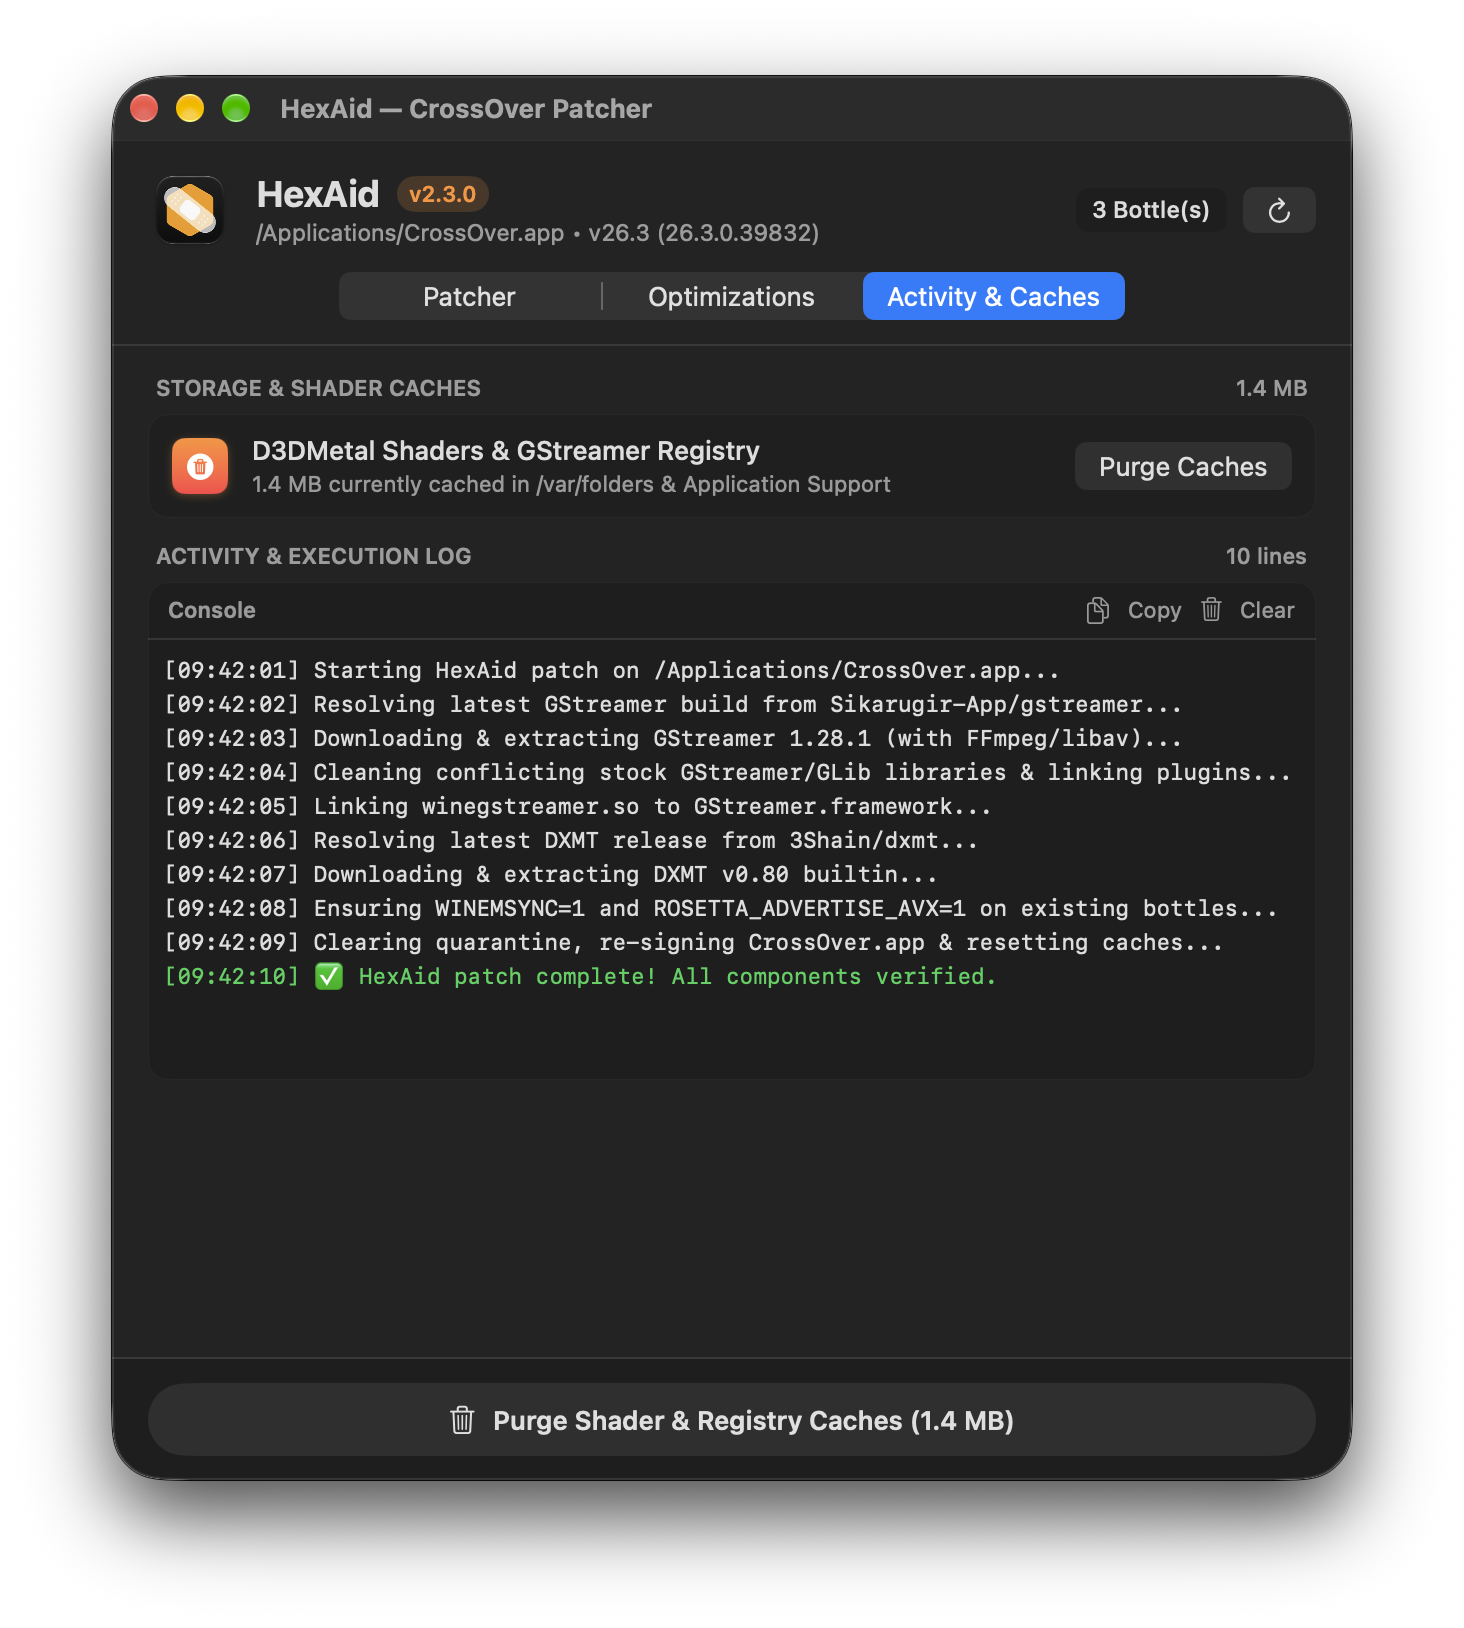
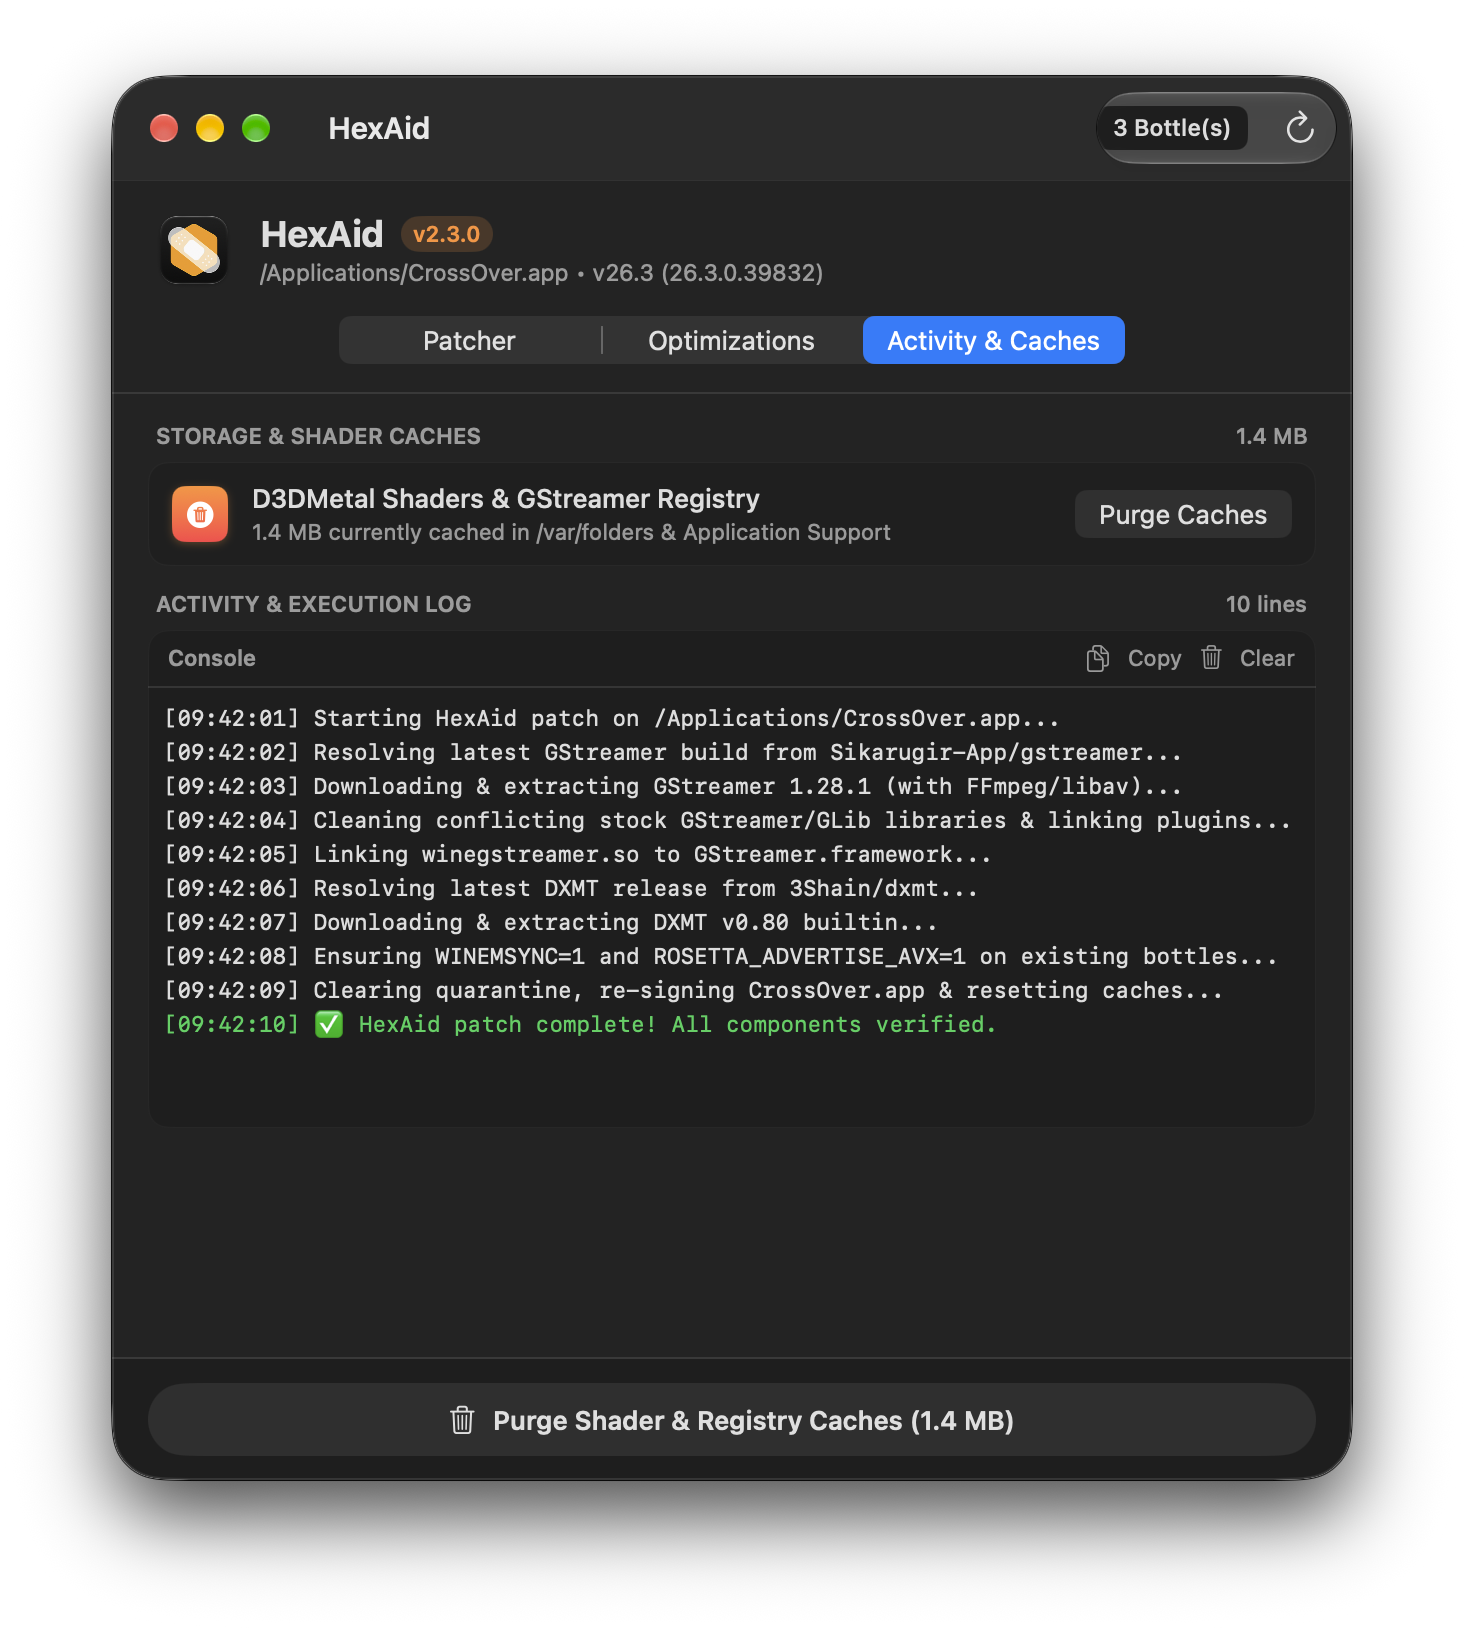
Redesign window titlebar with modern Apple unified styling and generous breathing room

Changed region(s): [[0.0922, 0.0614, 0.8914, 0.645], [0.584, 0.0307, 0.9221, 0.2457], [0.8607, 0.215, 0.8914, 0.2764]]

diff --git a/Sources/main.swift b/Sources/main.swift
@@ -651,27 +651,10 @@ struct ContentView: View {
                 }
 
                 Spacer()
-
-                HStack(spacing: 8) {
-                    Text("\(vm.status.bottleCount) Bottle(s)")
-                        .font(.system(size: 11.5, weight: .medium))
-                        .padding(.horizontal, 8)
-                        .padding(.vertical, 4)
-                        .background(Color(nsColor: .controlBackgroundColor))
-                        .clipShape(RoundedRectangle(cornerRadius: 6, style: .continuous))
-
-                    Button(action: { vm.refreshStatus() }) {
-                        Image(systemName: "arrow.clockwise")
-                            .font(.system(size: 12, weight: .medium))
-                    }
-                    .buttonStyle(.bordered)
-                    .disabled(vm.isBusy)
-                    .help("Refresh component status")
-                }
             }
-            .padding(.horizontal, 18)
+            .padding(.horizontal, 20)
             .padding(.top, 14)
-            .padding(.bottom, 10)
+            .padding(.bottom, 12)
 
             // Segmented Tab Picker
             Picker("", selection: $vm.activeTab) {
@@ -681,8 +664,8 @@ struct ContentView: View {
             }
             .pickerStyle(.segmented)
             .labelsHidden()
-            .padding(.horizontal, 18)
-            .padding(.bottom, 12)
+            .padding(.horizontal, 20)
+            .padding(.bottom, 14)
 
             Divider()
 
@@ -768,6 +751,26 @@ struct ContentView: View {
         }
         .frame(minWidth: 620, idealWidth: 620, maxWidth: .infinity,
                minHeight: 650, idealHeight: 670, maxHeight: .infinity)
+        .toolbar {
+            ToolbarItem(placement: .primaryAction) {
+                HStack(spacing: 8) {
+                    Text("\(vm.status.bottleCount) Bottle(s)")
+                        .font(.system(size: 11.5, weight: .medium))
+                        .padding(.horizontal, 8)
+                        .padding(.vertical, 4)
+                        .background(Color(nsColor: .controlBackgroundColor))
+                        .clipShape(RoundedRectangle(cornerRadius: 6, style: .continuous))
+
+                    Button(action: { vm.refreshStatus() }) {
+                        Image(systemName: "arrow.clockwise")
+                            .font(.system(size: 12, weight: .medium))
+                    }
+                    .buttonStyle(.bordered)
+                    .disabled(vm.isBusy)
+                    .help("Refresh component status")
+                }
+            }
+        }
         .onAppear {
             vm.refreshStatus()
         }
@@ -996,26 +999,19 @@ final class AppDelegate: NSObject, NSApplicationDelegate {
     func applicationDidFinishLaunching(_ notification: Notification) {
         let contentView = ContentView()
         window = NSWindow(
-            contentRect: NSRect(x: 0, y: 0, width: 620, height: 670),
+            contentRect: NSRect(x: 0, y: 0, width: 620, height: 690),
             styleMask: [.titled, .closable, .miniaturizable, .resizable],
             backing: .buffered,
             defer: false
         )
         window.center()
-        window.title = "HexAid — CrossOver Patcher"
-        window.minSize = NSSize(width: 600, height: 620)
+        window.title = "HexAid"
+        window.toolbarStyle = .unified
+        window.titlebarSeparatorStyle = .none
+        window.isMovableByWindowBackground = true
+        window.minSize = NSSize(width: 600, height: 640)
 
-        let visualEffect = NSVisualEffectView()
-        visualEffect.blendingMode = .behindWindow
-        visualEffect.state = .active
-        visualEffect.material = .windowBackground
-
-        let hostingView = NSHostingView(rootView: contentView)
-        hostingView.autoresizingMask = [.width, .height]
-        visualEffect.addSubview(hostingView)
-        hostingView.frame = visualEffect.bounds
-
-        window.contentView = visualEffect
+        window.contentViewController = NSHostingController(rootView: contentView)
         window.makeKeyAndOrderFront(nil)
         NSApp.activate(ignoringOtherApps: true)
     }
